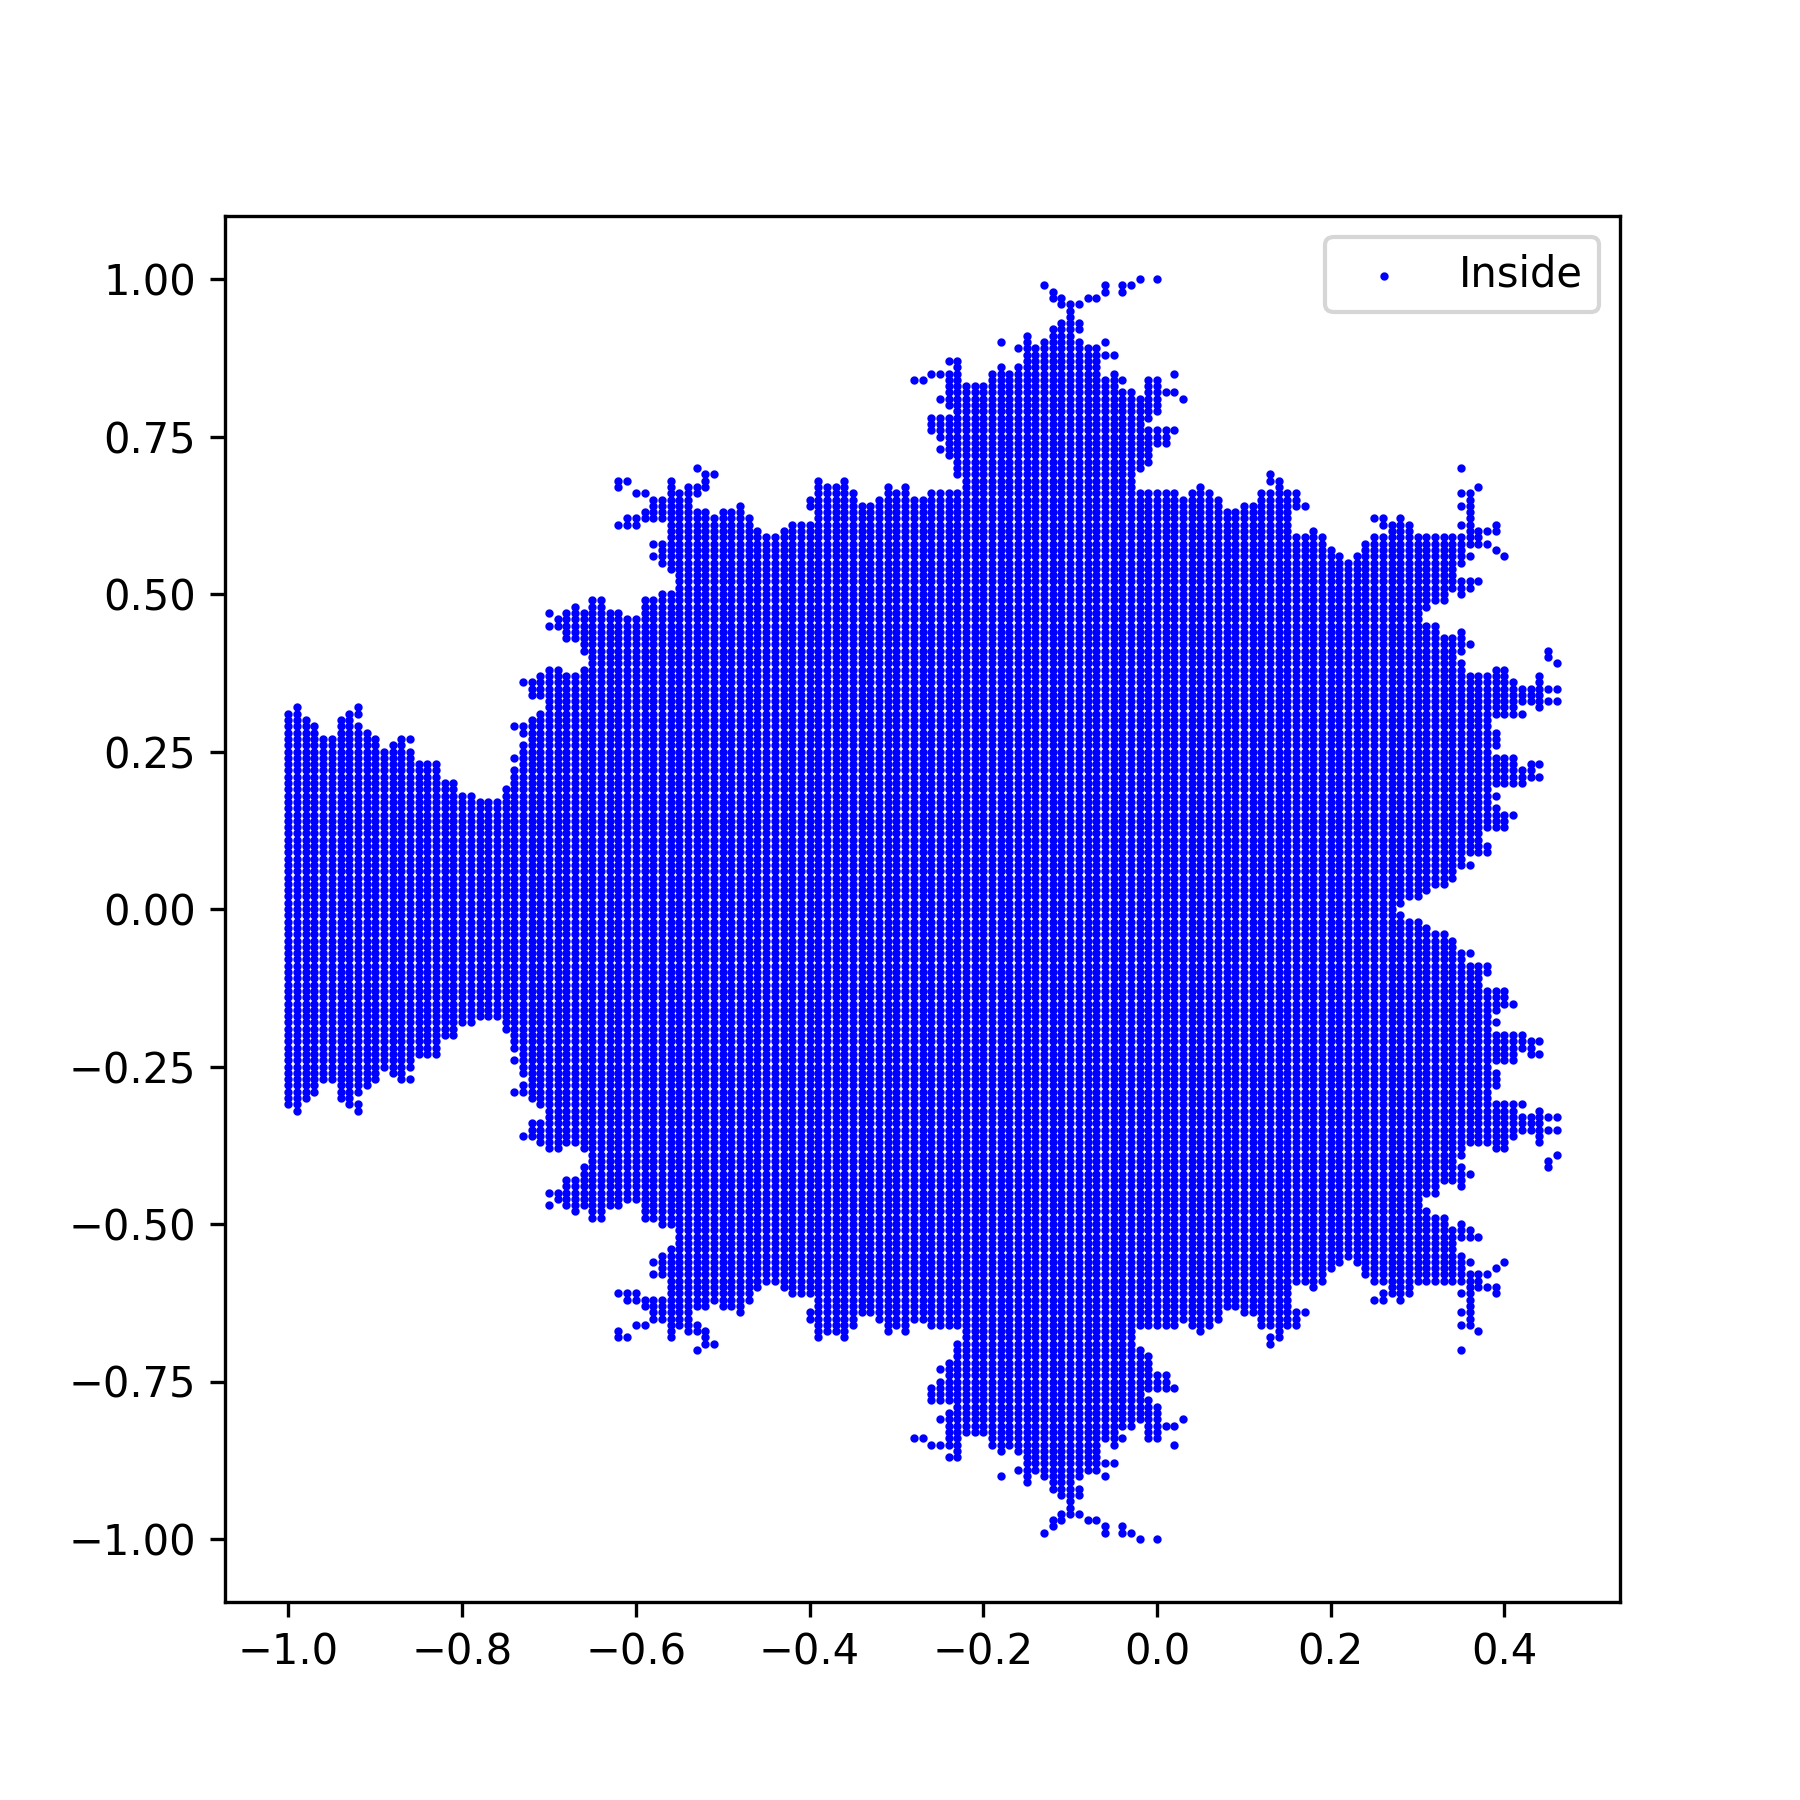
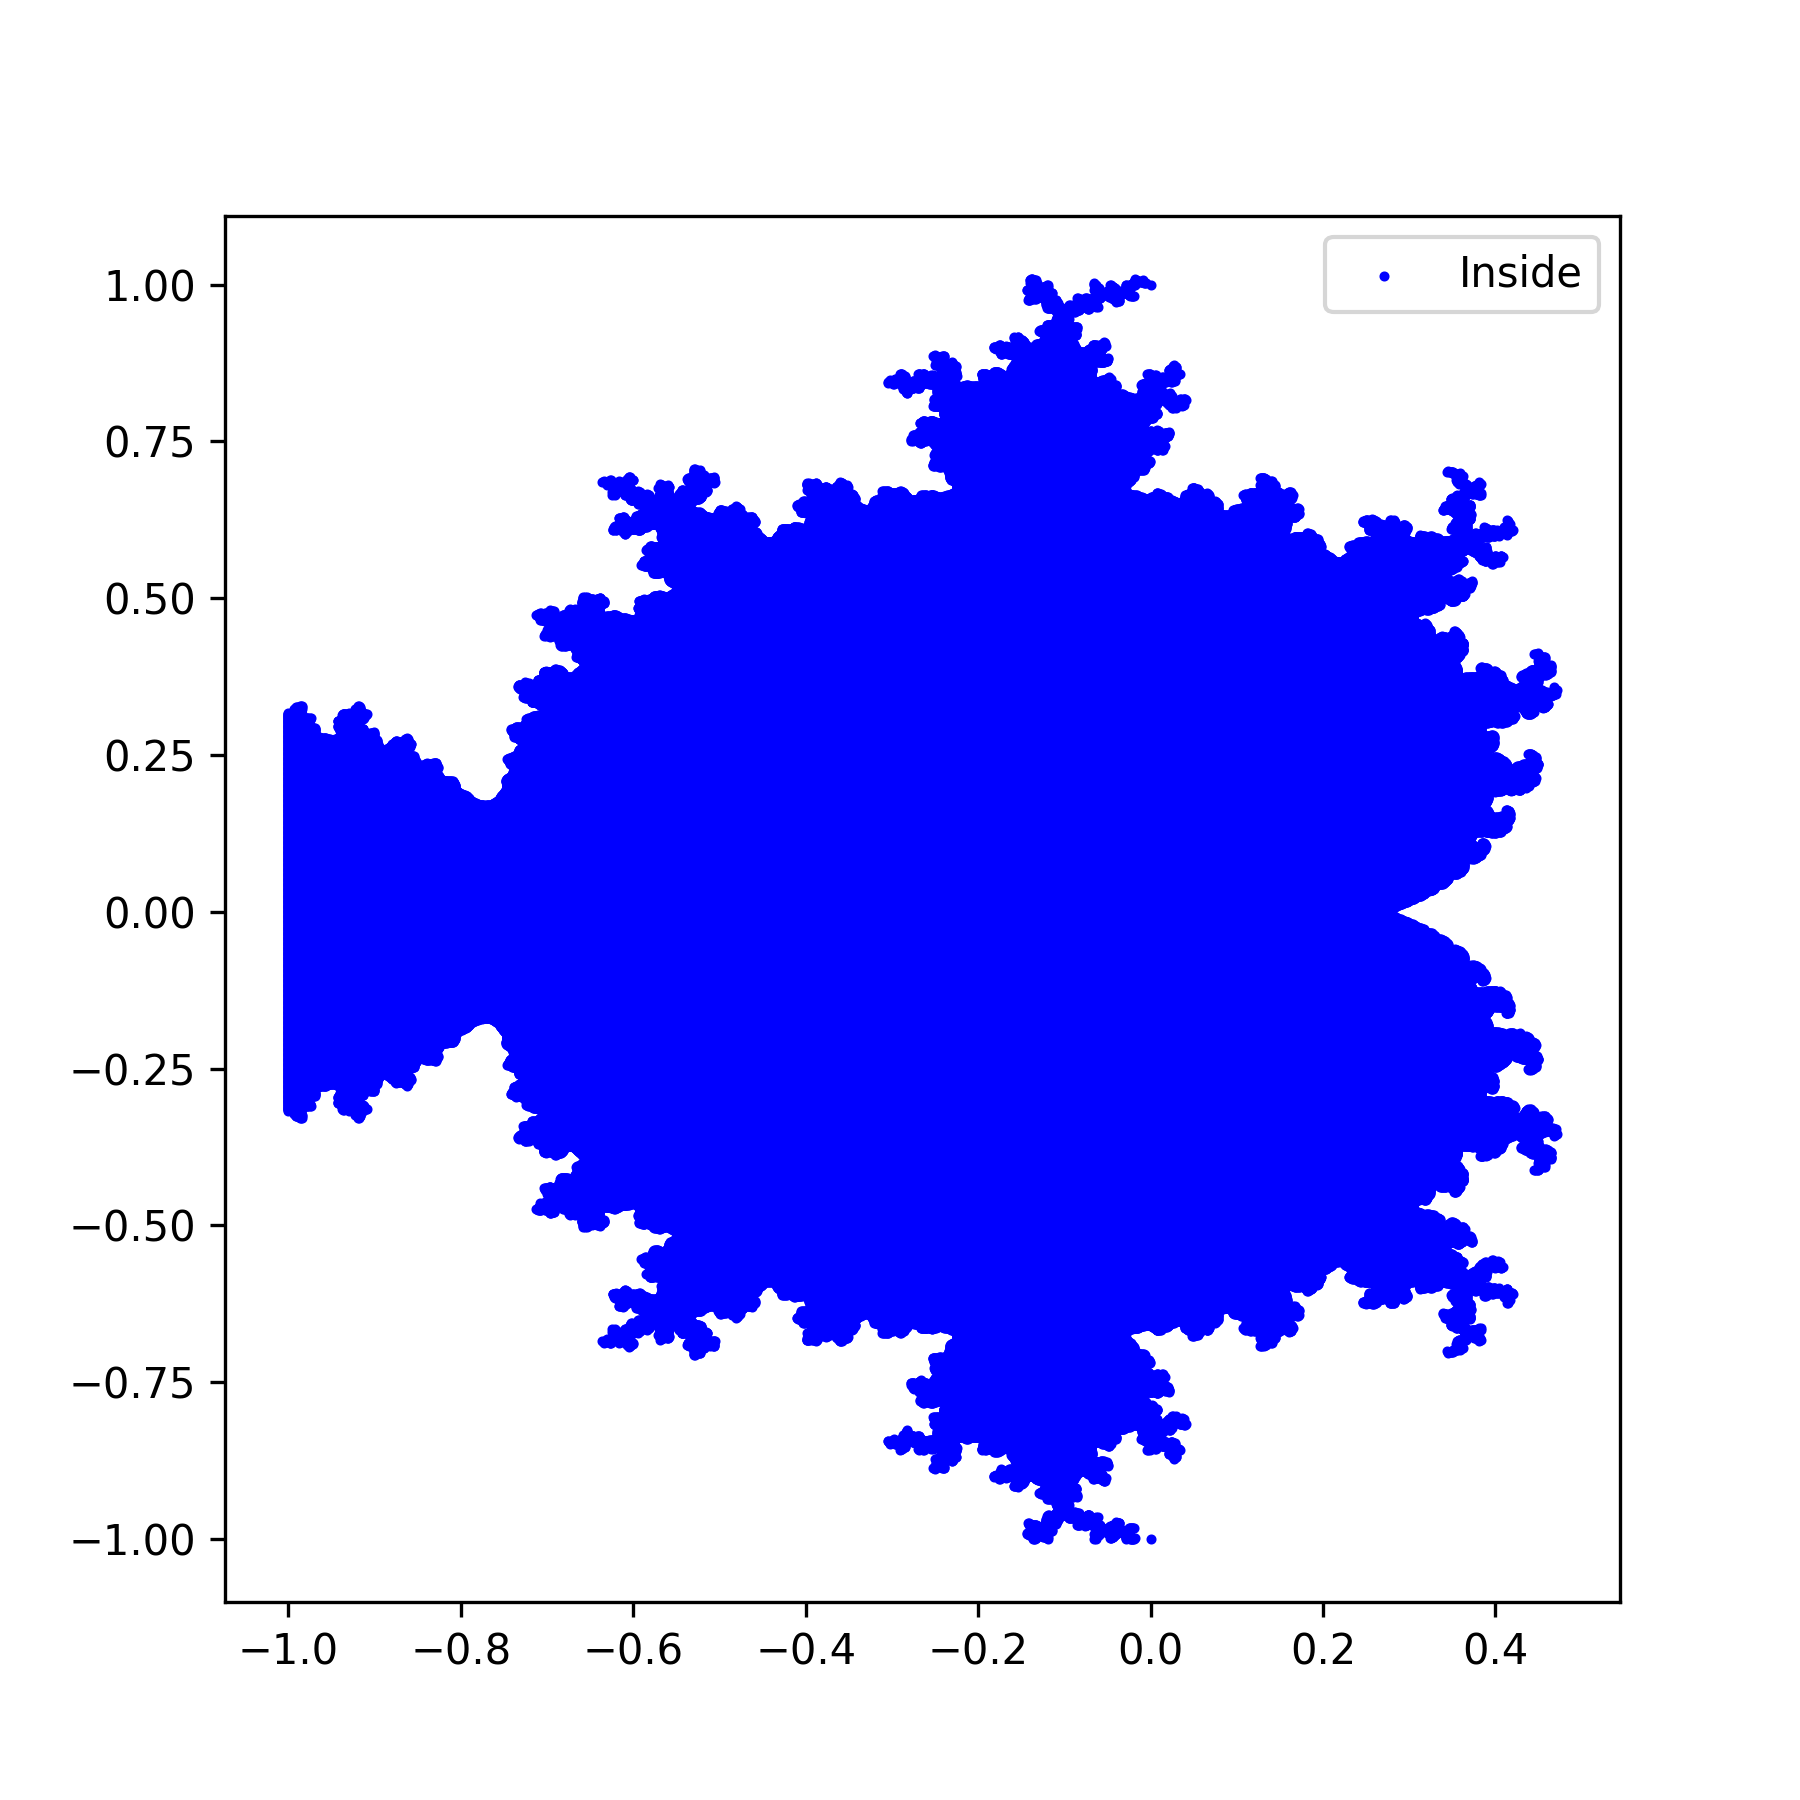
mon

diff --git a/mandelbrot.py b/mandelbrot.py
@@ -1,0 +1,42 @@
+import matplotlib.pyplot as plt
+import numpy as np
+
+
+def recurrence_formula_x(x, y, a):
+    return x**2 - y**2 + a
+
+
+def recurrence_formula_y(x, y, b):
+    return 2 * x * y + b
+
+
+def is_convergence(a, b, max_iter=20, threshold=1000):
+    x = np.zeros_like(a, dtype=np.float64)
+    y = np.zeros_like(b, dtype=np.float64)
+
+    diverged = np.zeros_like(a, dtype=bool)
+
+    for _ in range(max_iter):
+        x_new = recurrence_formula_x(x, y, a)
+        y_new = recurrence_formula_y(x, y, b)
+
+        newly_diverged = (np.abs(x_new) > threshold) | (np.abs(y_new) > threshold)
+
+        diverged |= newly_diverged
+
+        x = np.where(diverged, x, x_new)
+        y = np.where(diverged, y, y_new)
+
+    return ~diverged
+
+
+a = np.arange(-1, 1.01, 0.001)
+b = np.arange(-1, 1.01, 0.001)
+
+A, B = np.meshgrid(a, b)
+
+mask = is_convergence(A, B)
+plt.figure(figsize=(6, 6))
+plt.scatter(A[mask], B[mask], color="blue", s=2, label="Inside")
+plt.legend()
+plt.savefig("mandelbrot.png", dpi=300, format="png")
